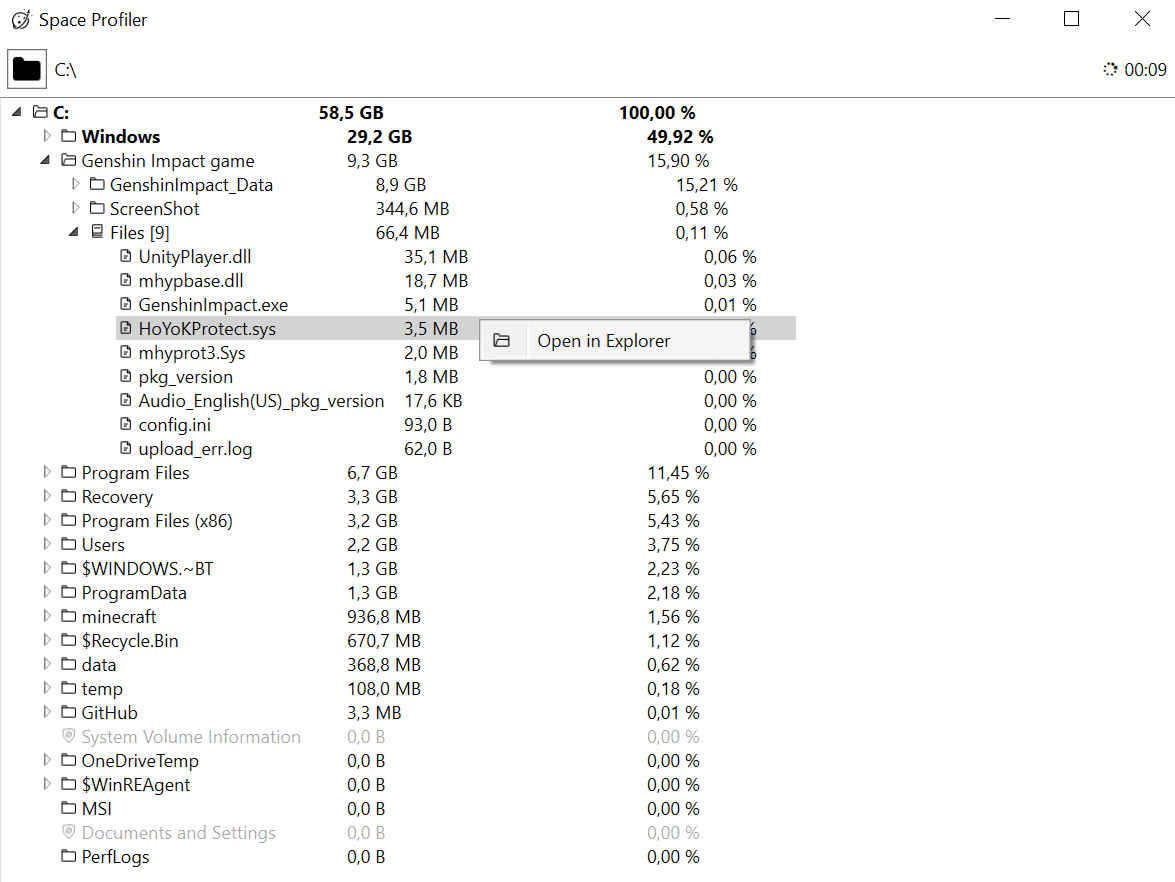
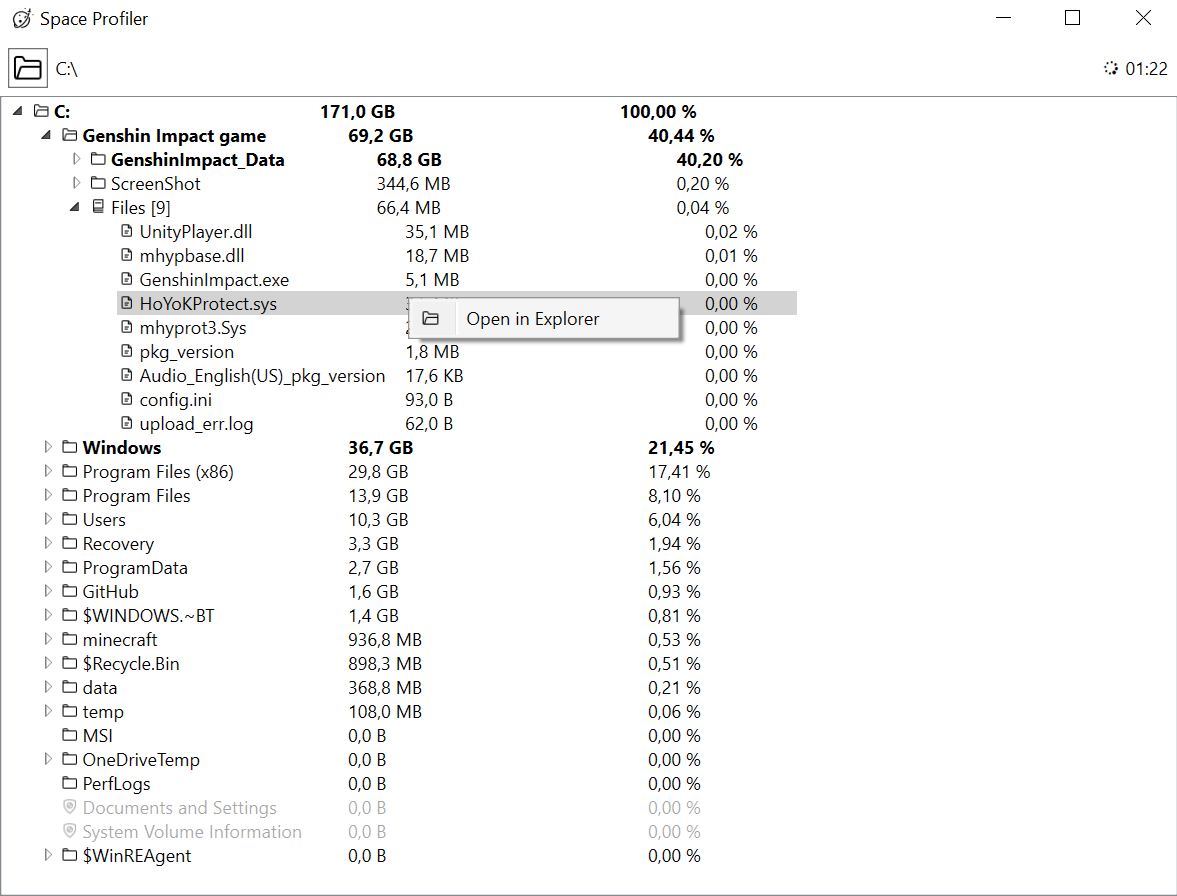
Edited UI README.md block

Changed region(s): [[0.0, 0.0, 1.0, 1.0], [0.8885, 0.0, 0.9191, 0.0306]]

diff --git a/README.md b/README.md
@@ -7,6 +7,7 @@
 ## UI
 Дерево отображается сразу же после выбора текущего каталога.
 Все рассчёты производятся асинхронно, дерево обновляется в режиме реального времени, а интерфейс остаётся отзывчивым. 
+Узлы загружаются лениво, при открытии родителя. При закрытии родителя все дочерние узлы удаляются.
 
 ### Выбор каталога
 
@@ -28,7 +29,7 @@
 
 #### Отображение недоступных элементов
 
-Если в ходе обработки дерева встречаются элементы, к которым нет доступа, то они отображаются серым, с особой иконкой
+Если в ходе обработки дерева встречаются элементы, к которым нет доступа, или симлинки, то они отображаются серым, с особой иконкой
 и имеют размер равный 0.
 
 #### Иконки
@@ -75,3 +76,21 @@
 Если во время работы приложения удалить корневой каталог, то в отображении останется узел размера 0.
 
 Если отменить удаление каталога, то изменения подтянутся и в интерфейс.
+
+### Обработка папок с большим количеством элементов
+Если в каталоге очень много элементов, то это будет приводить к зависанию интерфейса и негативному пользовательскому опыту.
+Но в целевом сценарии пользователя и не интересуют все элементы - он хочет найти самые крупные и получить общее представление о содержимом папки.
+
+Для директорий с большим количеством папок (>100) рядом с названием выводится количество подкаталогов. При попытке развернуть такой узел в интерфейсе 
+отобразиться только 20 самых крупных подкаталогов.
+
+<p align="center">
+<img src="img_8.png" width="800" alt="your-image-description" style="border: 1px solid  gray;">
+</p>
+
+Для директорий с большим количеством файлов (>100) будет добавлен узел "Files [N]". При попытке развернуть такой узел в интерфейсе
+отобразиться только 20 самых крупных файлов.
+<p align="center">
+<img src="img_7.png" width="800" alt="your-image-description" style="border: 1px solid  gray;">
+</p>
+
